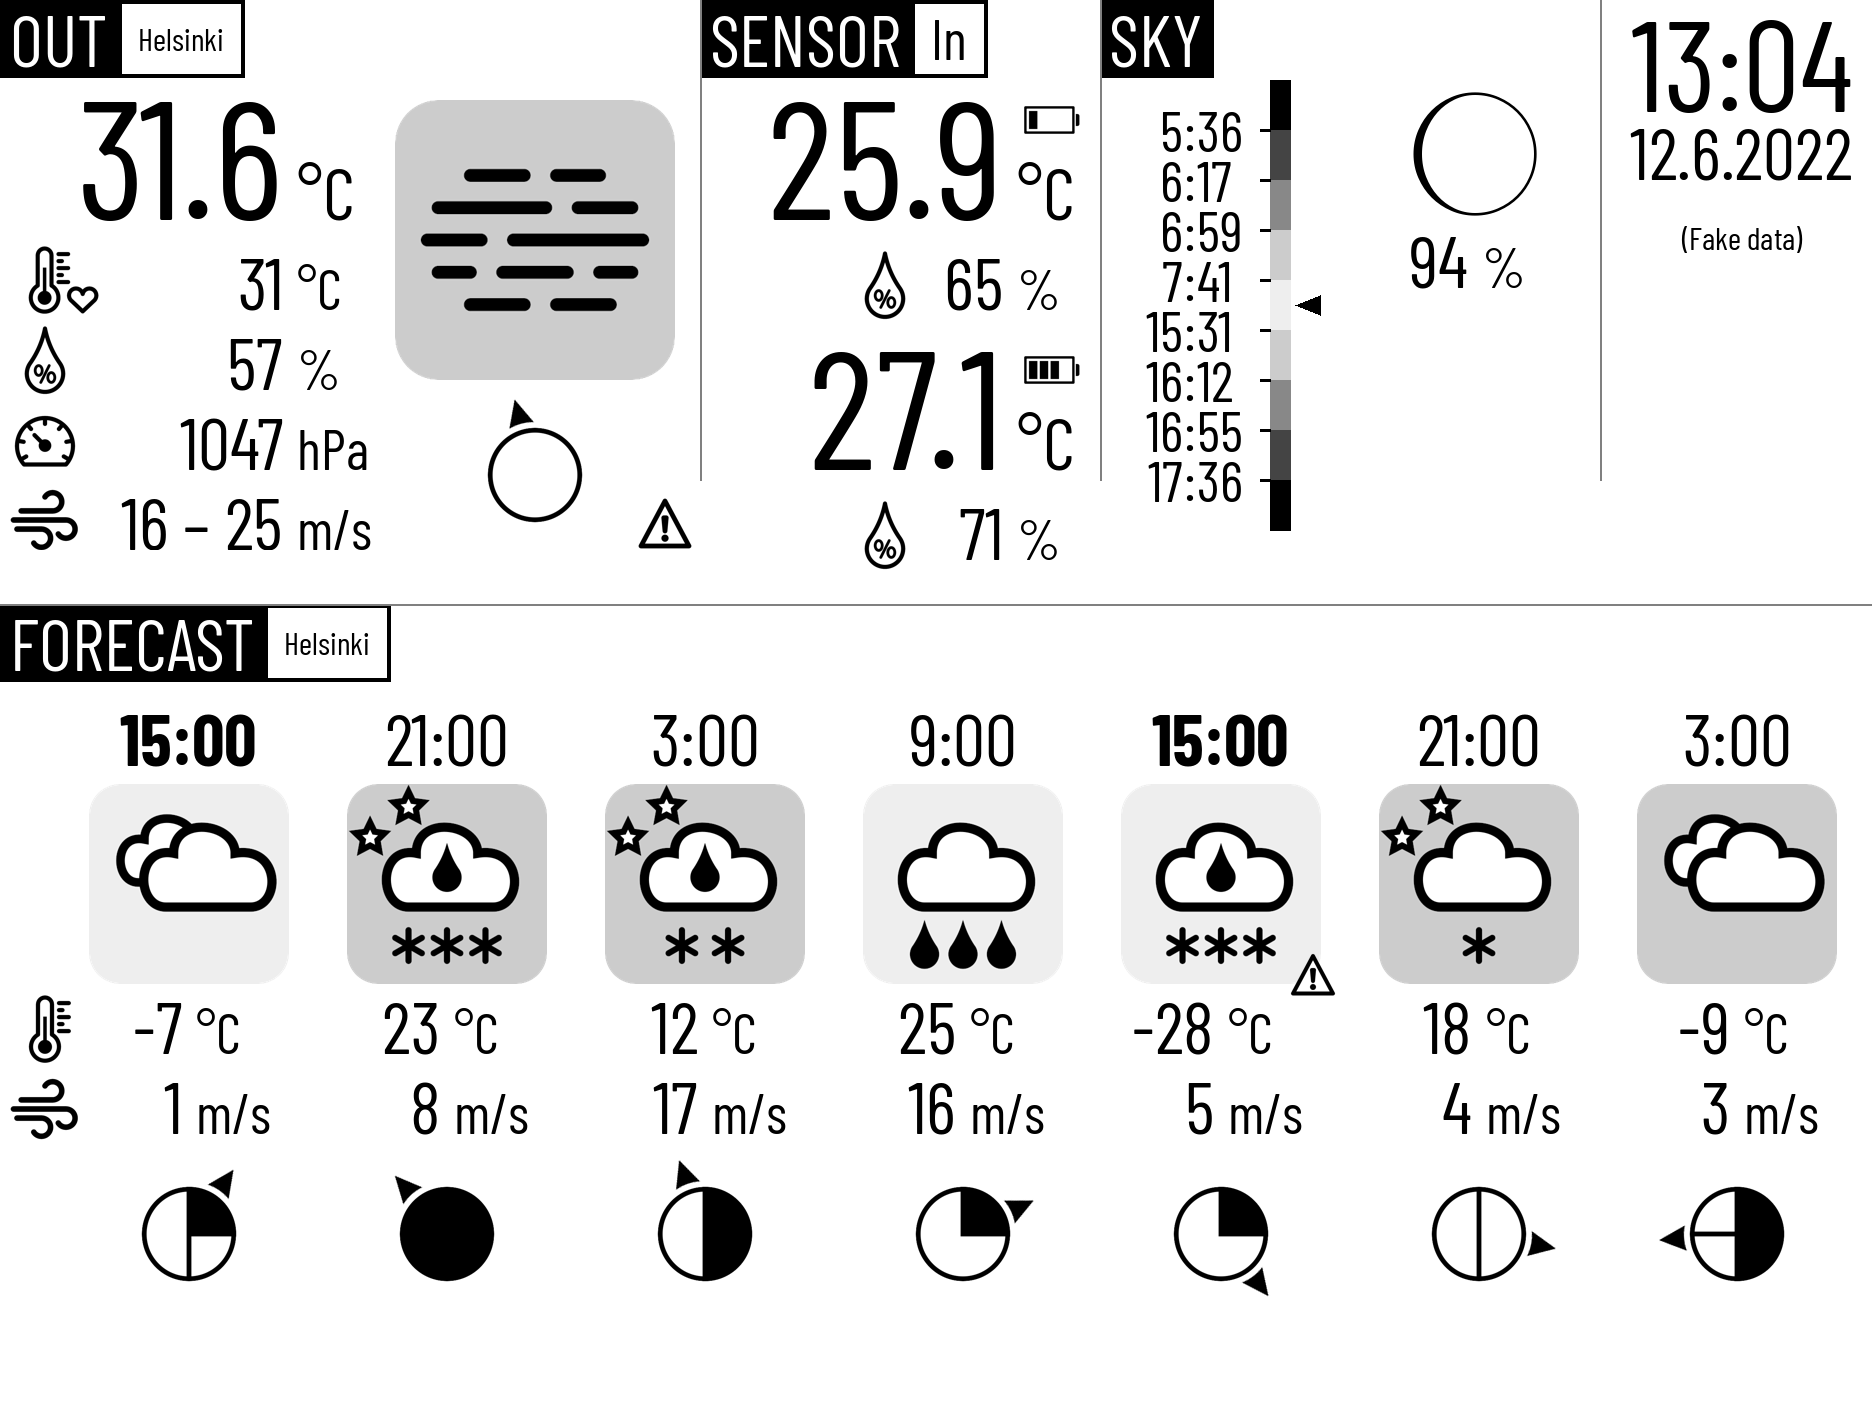
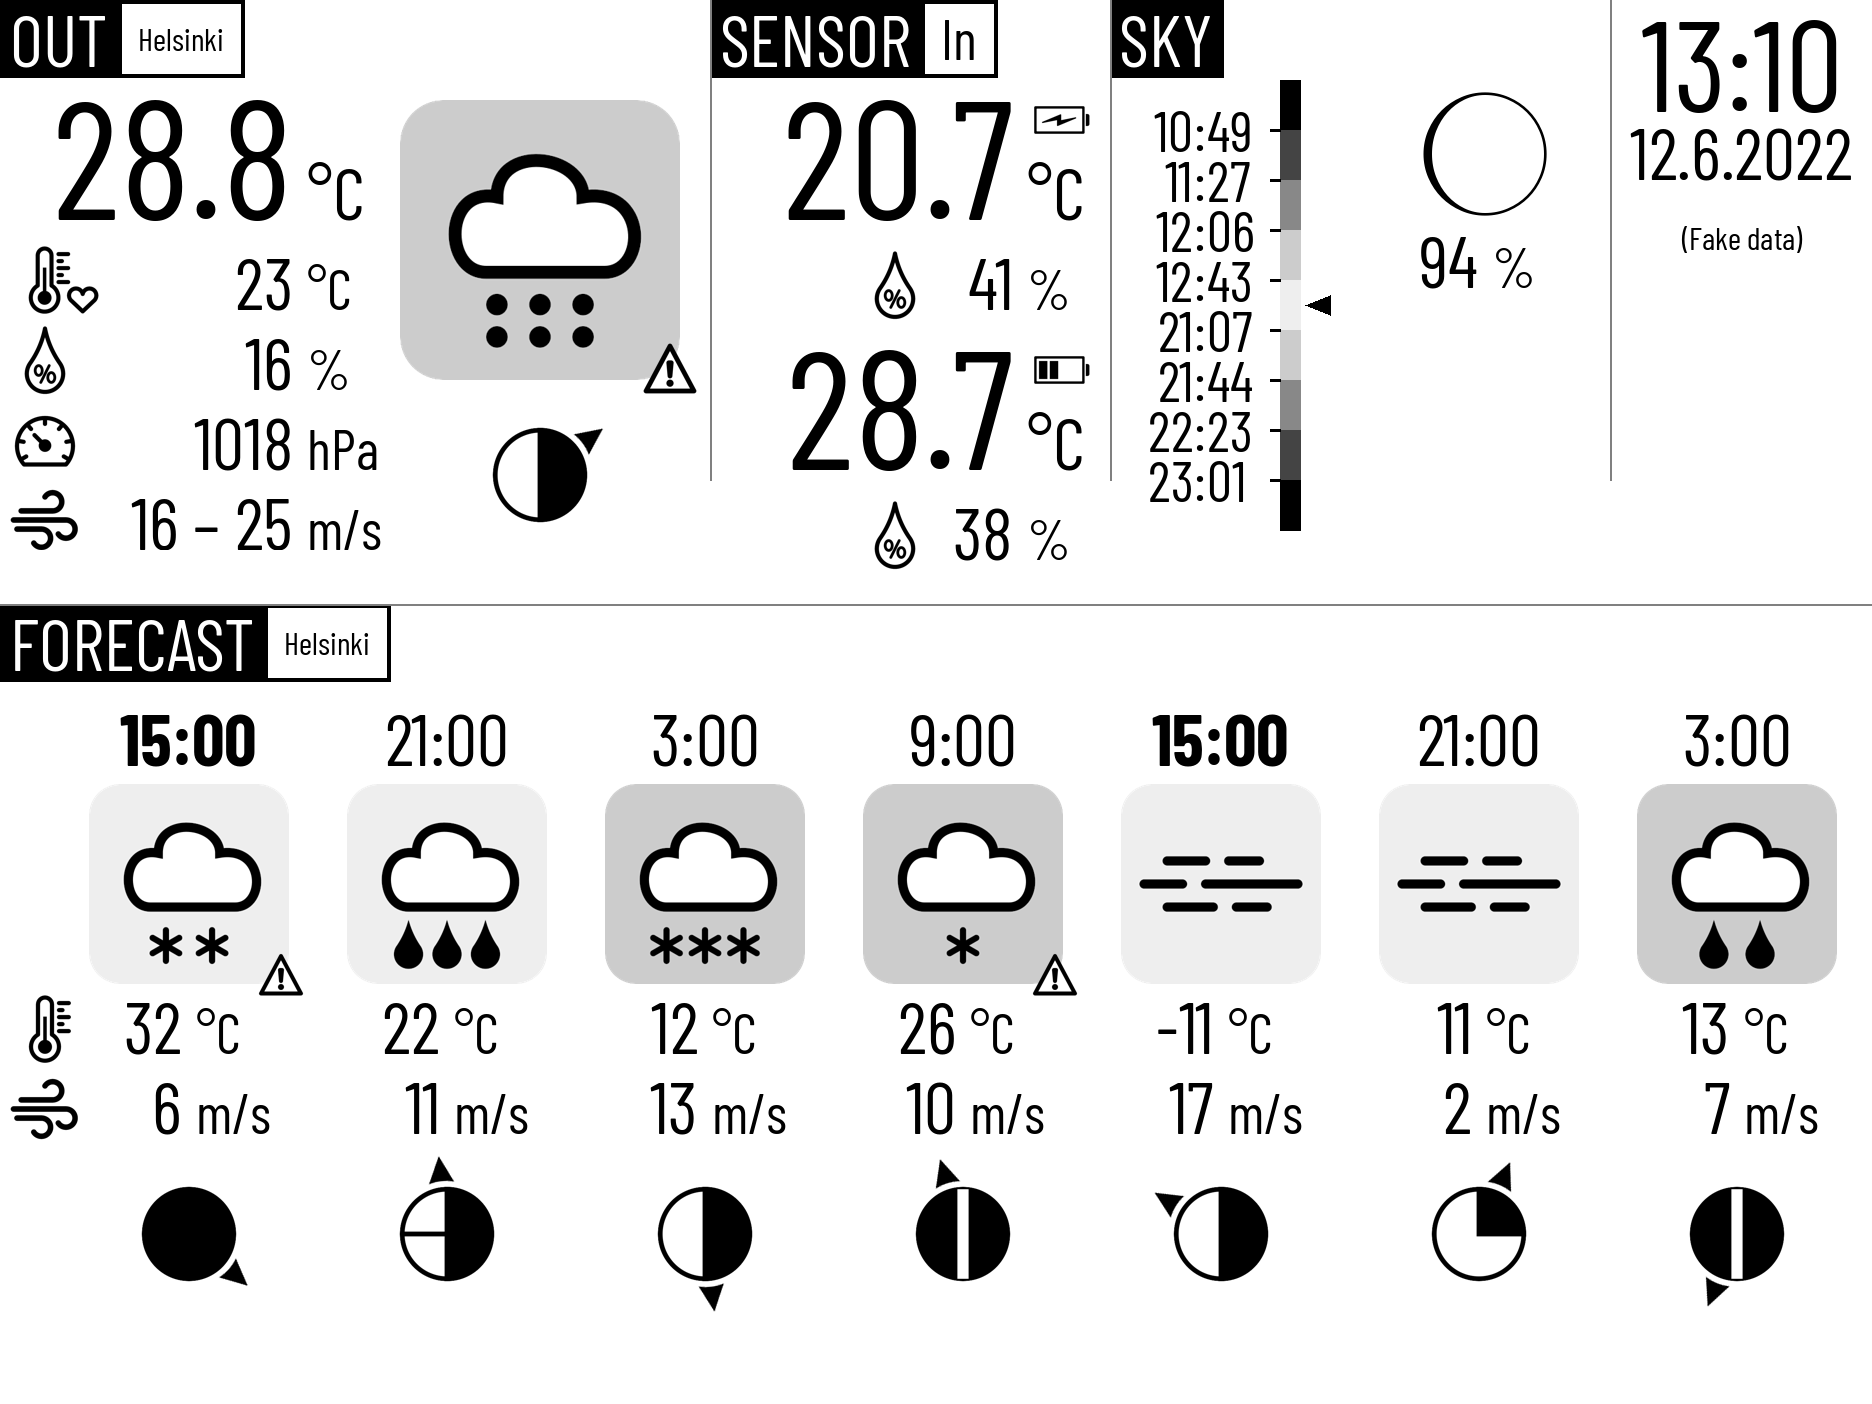
Fix layoput issue

diff --git a/eInk-weather-display/observation_panel.py b/eInk-weather-display/observation_panel.py
@@ -38,7 +38,7 @@ def get_observation_panel(observation_data: WeatherData, radiation_data: ApiData
   latest_date = max(observations.keys())
   latest_date_local = utils.utc_datetime_string_to_local_datetime(latest_date)
   is_daylight = get_is_daylight(position, latest_date)
-  x_size = 700
+  x_size = 710
   y_size = 550
   latest = observations[latest_date]
   image = Image.new('L', (x_size, y_size), 0xff)
@@ -46,7 +46,7 @@ def get_observation_panel(observation_data: WeatherData, radiation_data: ApiData
 
   utils.draw_title(draw, fonts['font_sm'], 'OUT', position_name, fonts['font_xxs'])
 
-  delimiter_x = 290
+  delimiter_x = 300
   data_y_base = 100
 
   # Feels like
@@ -82,7 +82,6 @@ def get_observation_panel(observation_data: WeatherData, radiation_data: ApiData
   image.paste(wind_icon, (10, data_y_base + 450-65), wind_icon)
 
   margin = 15
-  y_top = y_size - weather_icon_size - margin
   right_column_x_base = x_size//2 + margin + 30
   cloud_coverage = latest['n_man']
 
@@ -104,7 +103,7 @@ def get_observation_panel(observation_data: WeatherData, radiation_data: ApiData
   # Warning icon
   if (utils.show_temperatur_warning_icon(latest["t2m"], latest_date_local, config)):
     warning_icon = icons.get_scaled_image(images['misc']['warning'], 60)
-    image.paste(warning_icon, (right_column_x_base + weather_icon.width - 2*warning_icon.width//3, y_top + weather_icon.height - 2*warning_icon.height//3), warning_icon)
+    image.paste(warning_icon, (right_column_x_base + weather_icon.width - 2*warning_icon.width//3, data_y_base + weather_icon.height - 2*warning_icon.height//3), warning_icon)
 
   # Borders
   if (config.getboolean('DRAW_PANEL_BORDERS')):
